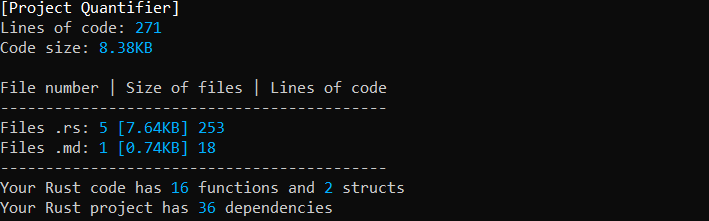
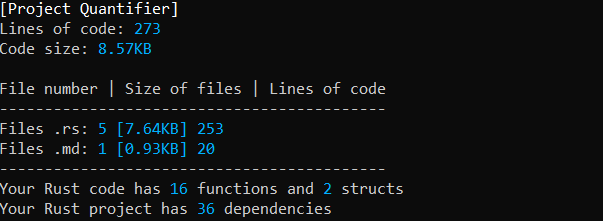
Small code changes and README.md clarifications.

diff --git a/src/main.rs b/src/main.rs
@@ -4,7 +4,7 @@ mod modules;
 use shared::*;
 use shared::module_runner::*;
 
-use std::{env};
+use std::env;
 
 /// Print the information about the files in the project
 fn print_info(files: Vec<String>, formats: Vec<String>){

diff --git a/src/modules/rust_dep_counter.rs b/src/modules/rust_dep_counter.rs
@@ -1,4 +1,4 @@
-use std::{process::Command};
+use std::process::Command;
 
 use crate::shared::*;
 

diff --git a/README.md b/README.md
@@ -1,8 +1,8 @@
 # Project Quantifier
 
-This project is a small tool to see the size of your project
+This project is a small tool to see the size of your project.
 
-Usage: project_quantifier [file formats you want to look(no binary files like .exe)]
+Usage: project_quantifier [file formats you want to look(no binary files like .exe)].
 
 Example:
 ```
@@ -14,5 +14,7 @@ quantifier .rs .md
 ![Alt text](assets/screenshot.png)
 
 # Modules
+
+There are currently two modules in this program, [rust functions and structs counter](src/modules/rust_fn_counter.rs) and also [rust dependency counter](src/modules/rust_dep_counter.rs).
 
 You can create your own module to this program by creating a file in [modules](src/modules) and your own struct with the name of your module. After that you'll have to implement the trait Run to implement the run(&self) function. Don't forget to add "pub mod [name of module]"! To access the basic functions, import [shared.rs](src/shared.rs) to get all files and filter by file format for example. The last thing is to run your module in shared::module_runner.
